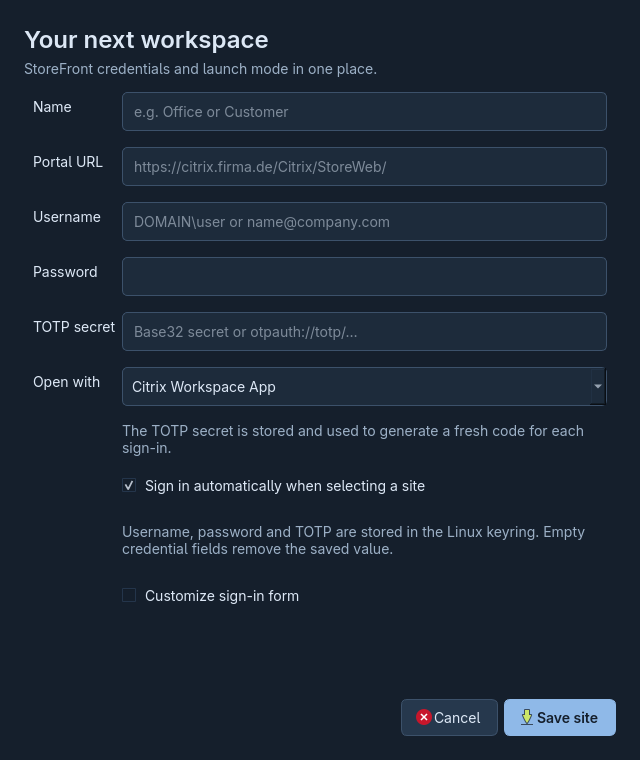
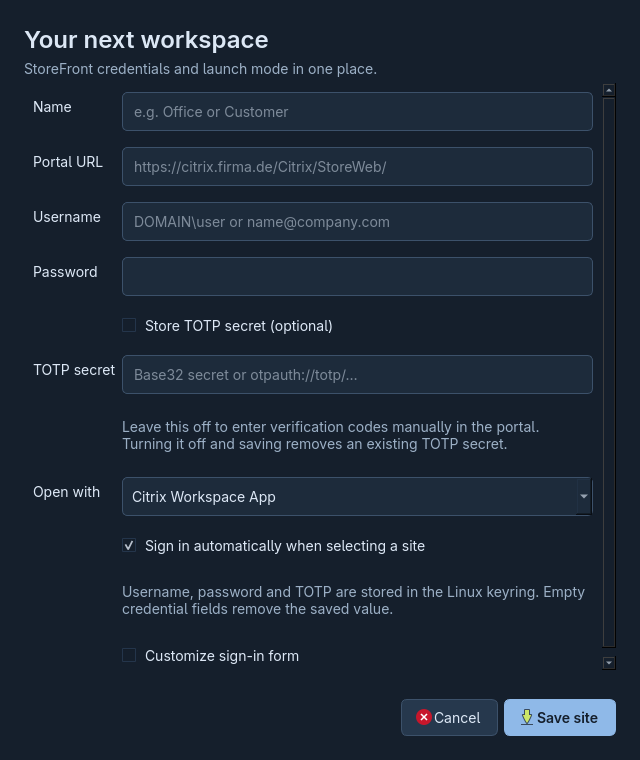
Add anonymized demo preview and optional TOTP storage with warning

diff --git a/src/omabridge/assets/login.js b/src/omabridge/assets/login.js
@@ -60,7 +60,8 @@
     const stage = roles.join("+");
     if (!options.fill) return {state: "ready", stage, roles};
     if (options.stage !== stage) return {state: "changed"};
-    if (roles.some(role => !options.values[role])) return {state: "missing"};
+    const fillRoles = options.manualOtp ? roles.filter(role => role !== 'otp') : roles;
+    if (fillRoles.some(role => !options.values[role])) return {state: "missing"};
     let submit;
     try {
         const matches = [...(form || document).querySelectorAll(options.selectors.submit ||
@@ -71,11 +72,13 @@
     if (submit && submit.formAction && new URL(submit.formAction, location.href).origin !== options.origin)
         return {state: "untrusted-action"};
     const setter = Object.getOwnPropertyDescriptor(HTMLInputElement.prototype, "value").set;
-    for (const role of roles) {
+    for (const role of fillRoles) {
         setter.call(fields[role], options.values[role]);
         fields[role].dispatchEvent(new Event("input", {bubbles: true}));
         fields[role].dispatchEvent(new Event("change", {bubbles: true}));
     }
+    // Without a stored secret, preserve the user's code and let them submit.
+    if (options.manualOtp) return {state: "manual-otp", stage};
     // AJAX portals sometimes render the button after the input. Fill the code
     // now and wait for a unique button without spending the submission budget.
     if (options.submit && !submit) return {state: "awaiting-submit", stage};

diff --git a/src/omabridge/ui.py b/src/omabridge/ui.py
@@ -133,6 +133,8 @@ class SiteDialog(QDialog):
         self.totp = QLineEdit(credentials.totp)
         self.totp.setEchoMode(QLineEdit.EchoMode.Password)
         self.totp.setPlaceholderText(tr("Base32 secret or otpauth://totp/…"))
+        self.store_totp = QCheckBox(tr("Store TOTP secret (optional)"))
+        self.store_totp.setChecked(bool(credentials.totp))
         self.mode = QComboBox()
         self.mode.addItem("Citrix Workspace App", "workspace")
         self.mode.addItem(tr("Browser · HTML5 in OmaBridge"), "browser")
@@ -140,10 +142,24 @@ class SiteDialog(QDialog):
         self.auto = QCheckBox(tr("Sign in automatically when selecting a site"))
         self.auto.setChecked(site.auto_login if site else True)
         for text, widget in [("Name", self.name), (tr("Portal URL"), self.url), (tr("Username"), self.username),
-                             (tr("Password"), self.password), (tr("TOTP secret"), self.totp), (tr("Open with"), self.mode)]:
+                             (tr("Password"), self.password)]:
             form.addRow(text, widget)
             widget.setAccessibleName(text)
-        form.addRow("", label(tr("The TOTP secret is stored and used to generate a fresh code for each sign-in."), "muted"))
+        form.addRow("", self.store_totp)
+        form.addRow(tr("TOTP secret"), self.totp)
+        self.totp.setAccessibleName(tr("TOTP secret"))
+        form.addRow("", label(tr("Leave this off to enter verification codes manually in the portal. Turning it off and saving removes an existing TOTP secret."), "muted"))
+        self.totp_warning = label(tr("Storing TOTP secrets alongside passwords is insecure: access to both can defeat two-factor authentication. Only use this option if you accept the risk; it is your responsibility."))
+        self.totp_warning.setObjectName("totpWarning")
+        self.totp_warning.setStyleSheet("color: #f5c879; background: #362b1b; border: 1px solid #80612c; border-radius: 5px; padding: 10px;")
+        self.totp_warning.setAccessibleName(tr("TOTP security warning"))
+        self.totp_warning.setAccessibleDescription(self.totp_warning.text())
+        form.addRow("", self.totp_warning)
+        self.store_totp.toggled.connect(self.update_totp_state)
+        self.totp.textChanged.connect(self.update_totp_state)
+        self.update_totp_state()
+        form.addRow(tr("Open with"), self.mode)
+        self.mode.setAccessibleName(tr("Open with"))
         form.addRow("", self.auto)
         form.addRow("", label(tr("Username, password and TOTP are stored in the Linux keyring. Empty credential fields remove the saved value."), "muted"))
         self.advanced = QCheckBox(tr("Customize sign-in form"))
@@ -183,6 +199,11 @@ class SiteDialog(QDialog):
         actions.rejected.connect(self.reject)
         outer.addWidget(actions)
 
+    def update_totp_state(self, *_):
+        enabled = self.store_totp.isChecked()
+        self.totp.setEnabled(enabled)
+        self.totp_warning.setVisible(enabled and bool(self.totp.text().strip()))
+
     def validate(self):
         try:
             data = dict(name=self.name.text(), url=self.url.text(), mode=self.mode.currentData(),
@@ -190,7 +211,8 @@ class SiteDialog(QDialog):
             if self.site:
                 data["id"] = self.site.id
             site = Site(**data)
-            credentials = Credentials(self.username.text().strip(), self.password.text(), self.totp.text().strip())
+            credentials = Credentials(self.username.text().strip(), self.password.text(),
+                                      self.totp.text().strip() if self.store_totp.isChecked() else "")
             if credentials.totp:
                 Totp.parse(credentials.totp)
             self.value = site, credentials

diff --git a/tests/test_ui.py b/tests/test_ui.py
@@ -37,6 +37,7 @@ def enter_site(name="Büro", url="https://citrix.test/Citrix/StoreWeb/"):
     dialog.url.setText(url)
     dialog.username.setText("demo-user")
     dialog.password.setText("test-password")
+    dialog.store_totp.setChecked(True)
     dialog.totp.setText("GEZDGNBVGY3TQOJQGEZDGNBVGY3TQOJQ")
     dialog.validate()
 
@@ -101,6 +102,7 @@ def test_invalid_totp_prevents_saving(app):
     dialog = SiteDialog(None)
     dialog.name.setText("Büro")
     dialog.url.setText("https://citrix.test")
+    dialog.store_totp.setChecked(True)
     dialog.totp.setText("123456")
     dialog.validate()
     assert dialog.value is None
@@ -275,3 +277,55 @@ def test_cancel_language_settings_does_not_change_preference(app, tab_window):
     tab_window.open_settings()
     assert language() == 'en'
     assert not tab_window.preferences.path.exists()
+
+
+def test_totp_storage_is_opt_in_and_warning_follows_input(app):
+    dialog = SiteDialog(None)
+    dialog.name.setText('Demo')
+    dialog.url.setText('https://citrix.test')
+    dialog.username.setText('demo-user')
+    dialog.password.setText('test-password')
+    assert not dialog.store_totp.isChecked()
+    assert not dialog.totp.isEnabled() and dialog.totp_warning.isHidden()
+    dialog.store_totp.setChecked(True)
+    dialog.totp.setText('GEZDGNBVGY3TQOJQGEZDGNBVGY3TQOJQ')
+    assert not dialog.totp_warning.isHidden()
+    assert 'insecure' in dialog.totp_warning.text()
+    assert 'your responsibility' in dialog.totp_warning.text()
+    dialog.store_totp.setChecked(False)
+    assert dialog.totp_warning.isHidden()
+    dialog.validate()
+    assert dialog.value[1] == Credentials('demo-user', 'test-password', '')
+    dialog.deleteLater()
+
+
+def test_disabling_totp_removes_only_saved_secret(app, tmp_path):
+    site = Site('Demo', 'https://citrix.test')
+    credentials = Credentials('demo-user', 'test-password', 'GEZDGNBVGY3TQOJQGEZDGNBVGY3TQOJQ')
+    store, vault = SiteStore(tmp_path), MemoryVault()
+    store.save([site])
+    vault.set(site.id, credentials)
+    window = MainWindow(store, vault)
+    def disable():
+        dialog = QApplication.activeModalWidget()
+        assert dialog.store_totp.isChecked()
+        assert not dialog.totp_warning.isHidden()
+        dialog.store_totp.setChecked(False)
+        dialog.validate()
+    QTimer.singleShot(0, disable)
+    window.edit_dialog(site, credentials)
+    wait_for(app, lambda: not window.jobs)
+    assert vault.get(site.id) == Credentials('demo-user', 'test-password', '')
+    assert store.load() == [site]
+    window.close()
+
+
+def test_totp_warning_is_available_in_german(app):
+    from omabridge.i18n import set_language
+    set_language('de')
+    dialog = SiteDialog(None, credentials=Credentials(totp='GEZDGNBVGY3TQOJQGEZDGNBVGY3TQOJQ'))
+    assert 'optional' in dialog.store_totp.text()
+    assert 'unsicher' in dialog.totp_warning.text()
+    assert 'Verantwortung liegt bei dir' in dialog.totp_warning.text()
+    dialog.close()
+    dialog.deleteLater()

diff --git a/src/omabridge/browser.py b/src/omabridge/browser.py
@@ -196,14 +196,17 @@ class PortalSession(QWidget):
             return
         values = {"username": self.credentials.username, "password": self.credentials.password,
                   "otp": self.totp.code() if self.totp else ""}
-        if any(not values.get(role) for role in result["roles"]):
+        manual_otp = "otp" in result["roles"] and self.totp is None
+        required_roles = [role for role in result["roles"] if not (manual_otp and role == "otp")]
+        if any(not values.get(role) for role in required_roles):
             self.busy = False
             self.message.emit(tr("Credentials are missing. Edit the site or sign in directly in the portal."))
             return
         # Reserve before invoking page code, so reloads and errors cannot cause a retry storm.
         options = self.login_options()
         self.used_stages.add(stage)
-        self.evaluate(LOGIN_SCRIPT, {**options, "fill": True, "submit": True, "stage": stage, "values": values},
+        self.evaluate(LOGIN_SCRIPT, {**options, "fill": True, "submit": not manual_otp,
+                                    "manualOtp": manual_otp, "stage": stage, "values": values},
                       lambda result: self.filled(result, stage))
 
     def filled(self, result, stage):
@@ -211,7 +214,9 @@ class PortalSession(QWidget):
             return
         self.busy = False
         state = result.get("state") if isinstance(result, dict) else None
-        if state == "submitted":
+        if state == "manual-otp":
+            self.message.emit(tr("Enter the verification code in the portal and submit it there. Saving TOTP is optional."))
+        elif state == "submitted":
             # The next form gets its own interval, even after a slow first step.
             self.deadline = time.monotonic() + 90
             if "password" in stage.split("+") and "otp" not in stage.split("+") and self.totp:

diff --git a/tests/test_browser.py b/tests/test_browser.py
@@ -284,3 +284,33 @@ def test_foreign_citrix_challenge_never_receives_code(app, session):
     html(app, session.page, CHALLENGE, "https://other.test/logon/LogonPoint/tmindex.html")
     tick(app, session)
     assert js(app, session.page, "document.querySelector('#response').value") == ""
+
+
+def test_optional_totp_allows_first_step_then_manual_challenge(app, session):
+    session.totp = None
+    html(app, session.page, FORM.replace('<input id="otp">', ''))
+    tick(app, session)
+    assert js(app, session.page, 'document.body.dataset.submits') == '1'
+    html(app, session.page, CHALLENGE)
+    messages = []
+    session.message.connect(messages.append)
+    tick(app, session)
+    assert js(app, session.page, 'response.value') == ''
+    assert js(app, session.page, 'document.body.dataset.submits || "0"') == '0'
+    assert 'Saving TOTP is optional' in messages[-1]
+    js(app, session.page, 'response.value = "654321"')
+    tick(app, session)
+    assert js(app, session.page, 'response.value') == '654321'
+    assert js(app, session.page, 'document.body.dataset.submits || "0"') == '0'
+
+
+def test_optional_totp_fills_credentials_but_preserves_manual_code(app, session):
+    session.totp = None
+    html(app, session.page, FORM)
+    js(app, session.page, 'otp.value = "654321"')
+    tick(app, session)
+    assert js(app, session.page, '[username.value, password.value, otp.value]') == ['demo', 'account-password', '654321']
+    assert js(app, session.page, 'document.body.dataset.submits || "0"') == '0'
+    js(app, session.page, 'password.value = "user-edited"')
+    tick(app, session)
+    assert js(app, session.page, 'password.value') == 'user-edited'

diff --git a/src/omabridge/__init__.py b/src/omabridge/__init__.py
@@ -1,3 +1,3 @@
 """OmaBridge: private, per-site Citrix portal sessions."""
 
-__version__ = "0.3.0"
+__version__ = "0.3.1"

diff --git a/docs/usage.de.md b/docs/usage.de.md
@@ -8,7 +8,7 @@ Citrix StoreFront aus der **Omarchy-Bar** öffnen: Site auswählen, mit Benutzer
 Passwort und TOTP anmelden, anschließend eine veröffentlichte App oder einen
 virtuellen Desktop im Citrix-Portal starten.
 
-![OmaBridge mit Site- und Sitzungs-Tabs (Vorschau)](tabs.png)
+![OmaBridge mit Site- und Sitzungs-Tabs (Vorschau)](../preview.png)
 
 ## Funktionen
 
@@ -67,9 +67,15 @@ Sitzungen bleiben erhalten. Die Sprache des Citrix-Portals wird dort eingestellt
 1. In der Bar auf **Citrix → Sites verwalten** klicken und in OmaBridge oben **+** wählen.
 2. Name und die vollständige **Receiver-for-Web-URL** eintragen, beispielsweise
    `https://citrix.firma.de/Citrix/StoreWeb/`. Keine URL mit Sitzungsticket speichern.
-3. Benutzername, Passwort und **TOTP-Schlüssel** eintragen. Unterstützt werden
+3. Benutzername und Passwort eintragen. **TOTP-Schlüssel speichern (optional)** ist
+   standardmäßig deaktiviert. Ohne Speicherung gibst du Codes manuell im Portal ein.
+   Bei aktivierter Speicherung unterstützt werden
    Base32-Schlüssel und `otpauth://totp/...`-Links; kein einzelner sechsstelliger Code.
    Ein QR-Code muss als otpauth-Link bzw. Schlüssel vorliegen; Bildimport ist nicht enthalten.
+   Sobald du einen Schlüssel eingibst, erscheint die Warnung: Die gemeinsame
+   Speicherung mit dem Passwort ist unsicher und liegt in deiner Verantwortung.
+   Deaktivieren und Speichern entfernt einen vorhandenen Schlüssel; Benutzername
+   und Passwort bleiben erhalten.
 4. Startmodus auswählen und speichern.
 5. Im Bar-Menü die Site wählen. OmaBridge öffnet das Portal und meldet sich an.
 6. Im Portal die gewünschte **App oder den Desktop** auswählen.
@@ -107,7 +113,11 @@ Portale lassen sich unter **⋮ → Site bearbeiten → Anmeldeformular anpassen
 | Anmelde-Button | `#loginBtn` |
 | Browser-Auswahl | `#useHtml5` (nur falls dieses Element im Portal existiert) |
 
-Bei einer zweistufigen Anmeldung wartet OmaBridge nach Benutzername/Passwort auf das
+Ohne gespeicherten TOTP-Schlüssel füllt OmaBridge Benutzername/Passwort aus; den
+Code gibst du selbst im Portal ein und bestätigst dort. Manuell eingegebene Codes
+werden weder überschrieben noch gespeichert.
+
+Bei einer zweistufigen Anmeldung mit gespeichertem Schlüssel wartet OmaBridge nach Benutzername/Passwort auf das
 nachgeladene Code-Formular und erzeugt den TOTP erst dafür neu. Auch Citrix-nFactor-
 Formulare mit `input#response` vom Typ `password` und der Beschriftung „Kennwort“
 werden über ihren sichtbaren Hinweis wie „Enter Your Microsoft verification code“

diff --git a/docs/usage.md b/docs/usage.md
@@ -8,7 +8,7 @@ Open Citrix StoreFront from the **Omarchy bar**: choose a site, sign in with you
 username, password and TOTP, then launch a published app or virtual desktop from
 the Citrix portal.
 
-![OmaBridge with site and session tabs (preview)](tabs.png)
+![OmaBridge with site and session tabs (preview)](../preview.png)
 
 ## Features
 
@@ -64,9 +64,13 @@ Portal content uses its own language settings.
 1. Click **Citrix → Manage sites** in the bar, then **+** at the top of OmaBridge.
 2. Enter a name and the full **Receiver for Web URL**, for example
    `https://citrix.firma.de/Citrix/StoreWeb/`. Do not save a URL containing a session ticket.
-3. Enter your username, password and **TOTP secret**. Base32 secrets and
+3. Enter your username and password. **Store TOTP secret (optional)** is off by default.
+   Leave it off to enter codes manually in the portal. If enabled, Base32 secrets and
    `otpauth://totp/...` links are supported; an individual six-digit code is not a secret.
    A QR code must be provided as its otpauth link or secret; image import is not included.
+   A warning appears as soon as you enter a secret: storing it with your password
+   weakens two-factor authentication and is your responsibility. To remove a saved
+   secret, disable the checkbox and save; username and password are preserved.
 4. Choose the launch mode and save.
 5. Select the site in the bar menu. OmaBridge opens the portal and signs in.
 6. Select the desired **app or desktop** in the portal.
@@ -104,7 +108,10 @@ attributes and `autocomplete` values. Configure custom portals under
 | Sign-in button | `#loginBtn` |
 | Browser selection | `#useHtml5` (only if this element exists in the portal) |
 
-For two-step sign-in, OmaBridge waits for the code form after submitting the username
+Without a saved TOTP secret, OmaBridge fills username/password but leaves the OTP
+field and submission to you. Manually entered codes are neither overwritten nor saved.
+
+For two-step sign-in with a saved secret, OmaBridge waits for the code form after submitting the username
 and password, then generates a fresh TOTP for that step. Citrix nFactor forms with
 an `input#response` of type `password` and the label “Kennwort” are also recognized
 using visible prompts such as “Enter Your Microsoft verification code”. Without an

diff --git a/README.de.md b/README.de.md
@@ -4,10 +4,12 @@
 
 Mit diesem Plugin kannst du dich über die Omarchy-Bar **automatisiert auf
 Citrix-Remote-Seiten einloggen**. Speichere mehrere Sites mit Benutzername,
-Passwort und TOTP-Schlüssel, wähle eine Site aus und starte eine App oder einen
+Passwort und optionalem TOTP-Schlüssel, wähle eine Site aus und starte eine App oder einen
 virtuellen Desktop mit **Citrix Workspace** oder im **integrierten HTML5-Browser**.
 
-![OmaBridge-Vorschau](docs/tabs.png)
+![OmaBridge-Demo: Desktop-Auswahl und Sitzungsstart](preview.png)
+
+*Kombinierte Demo-Abbildung mit fiktiven Namen und Branding.*
 
 - Zugangsdaten im Linux-Schlüsselbund (Secret Service).
 - Mehrstufige Anmeldung mit TOTP-Abfrage nach Benutzername und Passwort.
@@ -31,8 +33,11 @@ Erneutes Ausführen aktualisiert beides. `omarchy plugin add` allein installiert
 ## Verwendung
 
 **Citrix → Manage sites** (deutsch: **Sites verwalten**) und anschließend **+** wählen. HTTPS-Portal-URL,
-Zugangsdaten und **TOTP-Schlüssel** eintragen (Base32 oder `otpauth://`-Link,
-kein Einmalcode). Workspace oder Browser auswählen, speichern und die Site
+Zugangsdaten eintragen. **TOTP-Speicherung ist optional und standardmäßig aus**.
+Codes manuell im Portal eingeben oder einen Base32-Schlüssel bzw. `otpauth://`-Link
+speichern. Das gemeinsame Speichern mit dem Passwort ist unsicher und liegt in
+deiner Verantwortung; die App zeigt dazu eine Warnung.
+Workspace oder Browser auswählen, speichern und die Site
 in der Bar öffnen. App oder Desktop im Citrix-Portal auswählen.
 Standard ist Englisch. Unter **⋮ → Settings → Language → Deutsch** wechselst du
 sofort auf Deutsch. Die Auswahl bleibt gespeichert; Sitzungen bleiben geöffnet.

diff --git a/README.md b/README.md
@@ -3,11 +3,13 @@
 **English** | [Deutsch](README.de.md)
 
 Automatically log in to **Citrix remote sites** from the Omarchy bar.
-Save multiple sites with your username, password and TOTP secret, select a site,
+Save multiple sites with your username, password and optional TOTP secret, select a site,
 then launch an app or virtual desktop using **Citrix Workspace** or the
 **integrated HTML5 browser**.
 
-![OmaBridge preview](docs/tabs.png)
+![OmaBridge demo: desktop selection and session launch](preview.png)
+
+*Combined demo illustration with fictional names and branding.*
 
 - Credentials stored in the Linux keyring (Secret Service).
 - Multi-step sign-in, including a TOTP prompt after username and password.
@@ -30,9 +32,11 @@ Run it again to update. `omarchy plugin add` alone does not install the Python a
 
 ## Use
 
-Click **Citrix → Manage sites**, then **+**. Enter the portal's HTTPS URL,
-your credentials and a **TOTP secret** (Base32 or `otpauth://` link, not a one-time
-code). Choose Workspace or Browser, save, and select the site from the bar.
+Click **Citrix → Manage sites**, then **+**. Enter the portal's HTTPS URL
+and your credentials. **TOTP storage is optional and off by default**; enter codes
+manually in the portal, or enable storage using a Base32 secret or `otpauth://` link.
+Storing TOTP alongside your password is insecure and your responsibility; the app
+shows a warning. Choose Workspace or Browser, save, and select the site from the bar.
 Choose the app or desktop in the Citrix portal. Settings are under **⋮**.
 English is the default. Switch to German under **⋮ → Settings → Language**;
 the preference is saved and applies without closing sessions.

diff --git a/CHANGELOG.md b/CHANGELOG.md
@@ -1,5 +1,12 @@
 # Änderungen
 
+## 0.3.1 — 2026-09-12
+
+- Gemeinsame Demo-Abbildung mit fiktiven Namen und Branding in beiden READMEs.
+- TOTP-Speicherung ausdrücklich optional und bei neuen Sites deaktiviert.
+- Sichtbare Warnung zum Risiko und zur Eigenverantwortung bei TOTP-Eingabe.
+- Manuelle Code-Eingabe ohne Überschreiben oder automatisches Absenden.
+
 ## 0.3.0 — 2026-09-12
 
 - Englisch als Standardsprache; Deutsch unter Settings → Language auswählbar.
